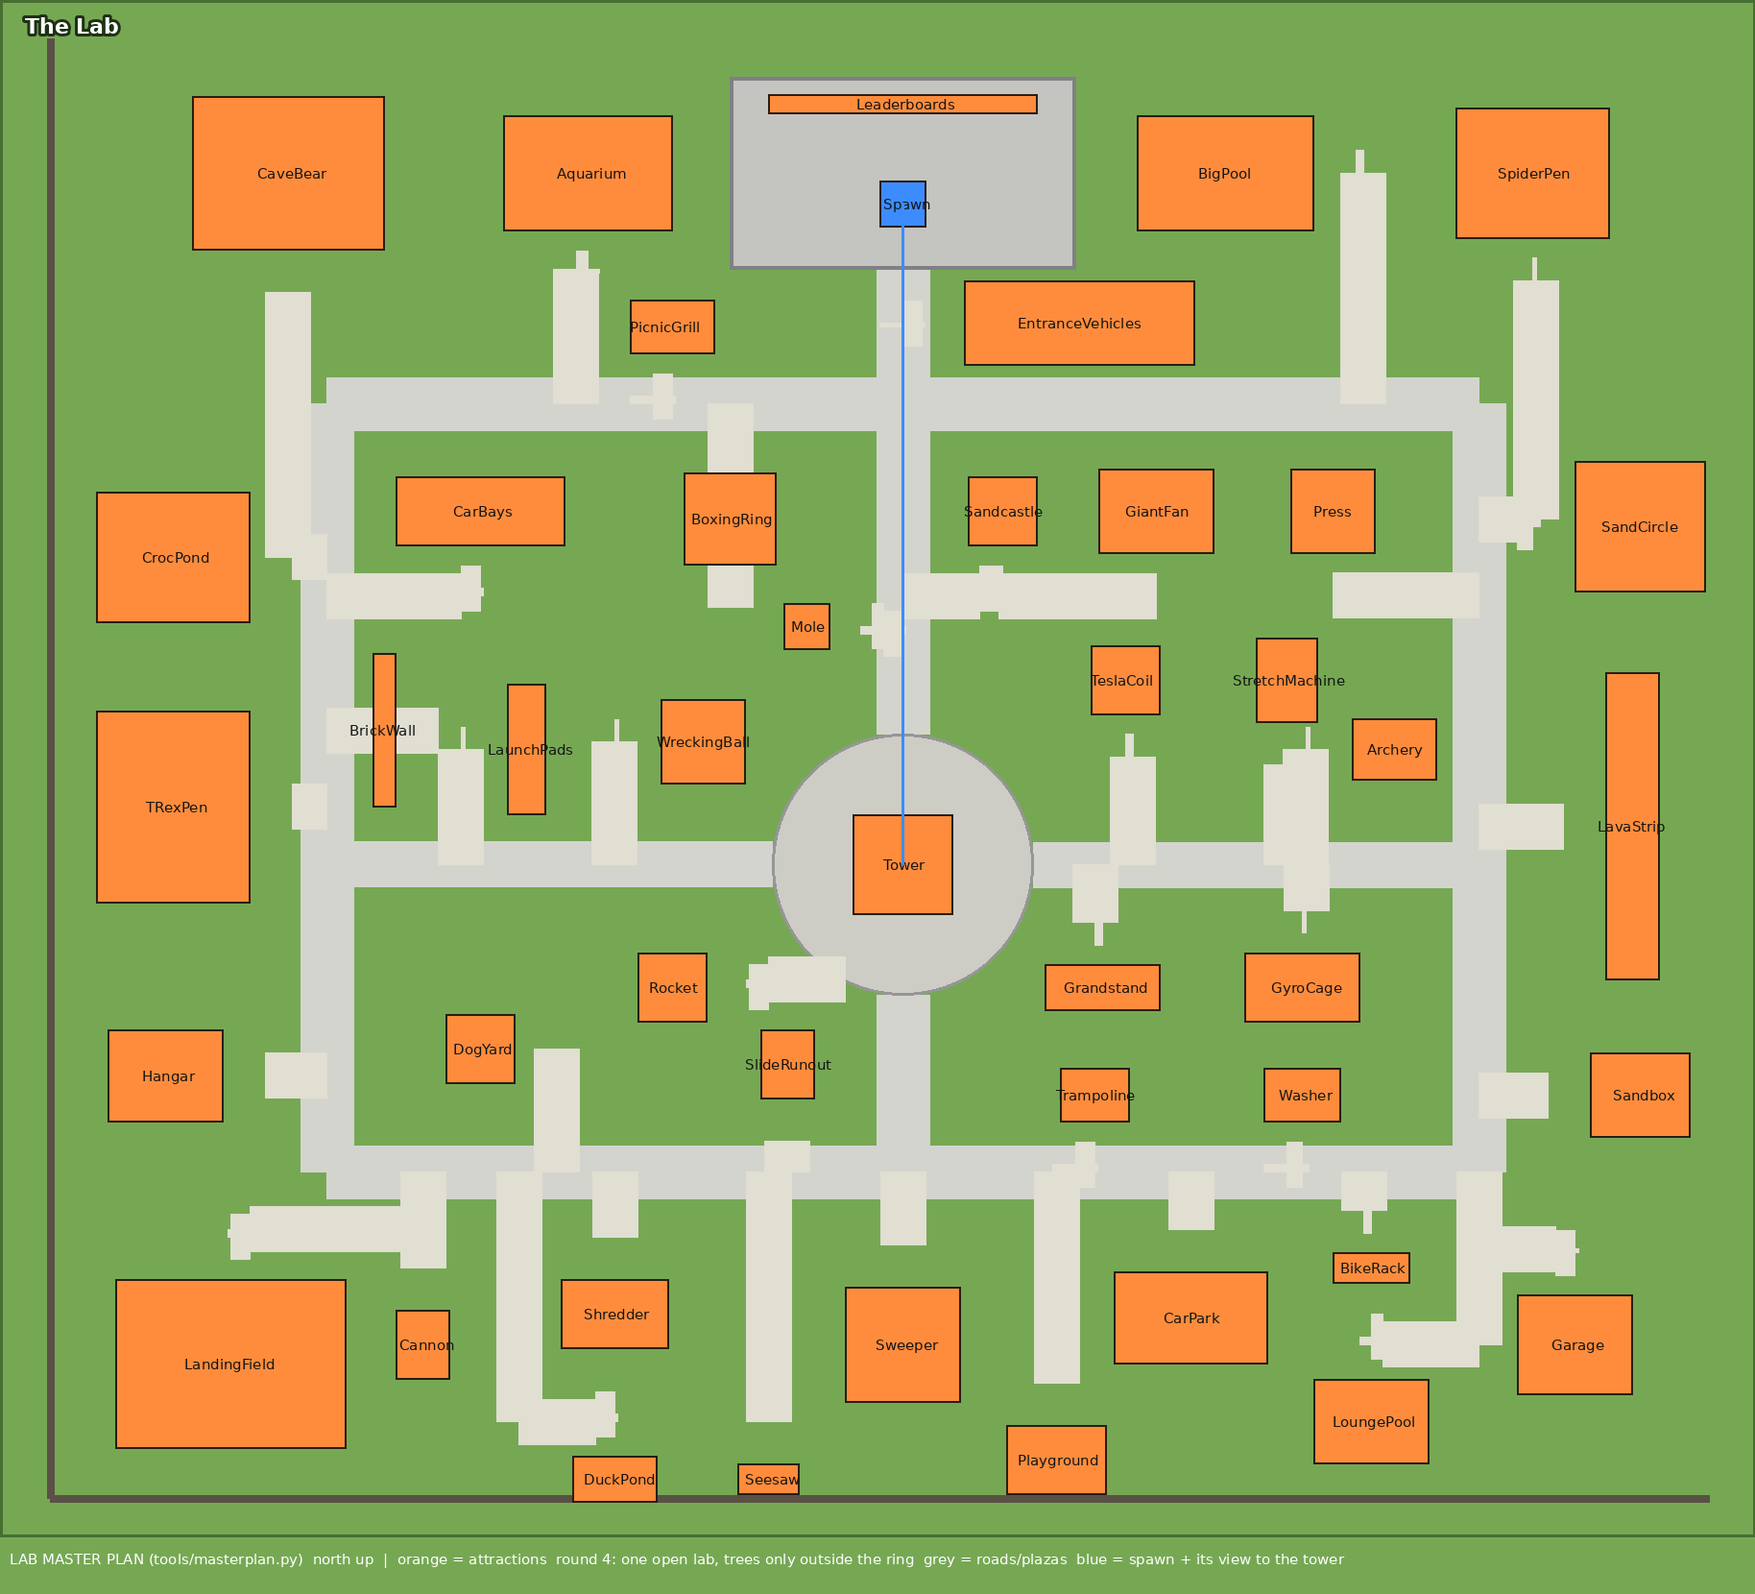
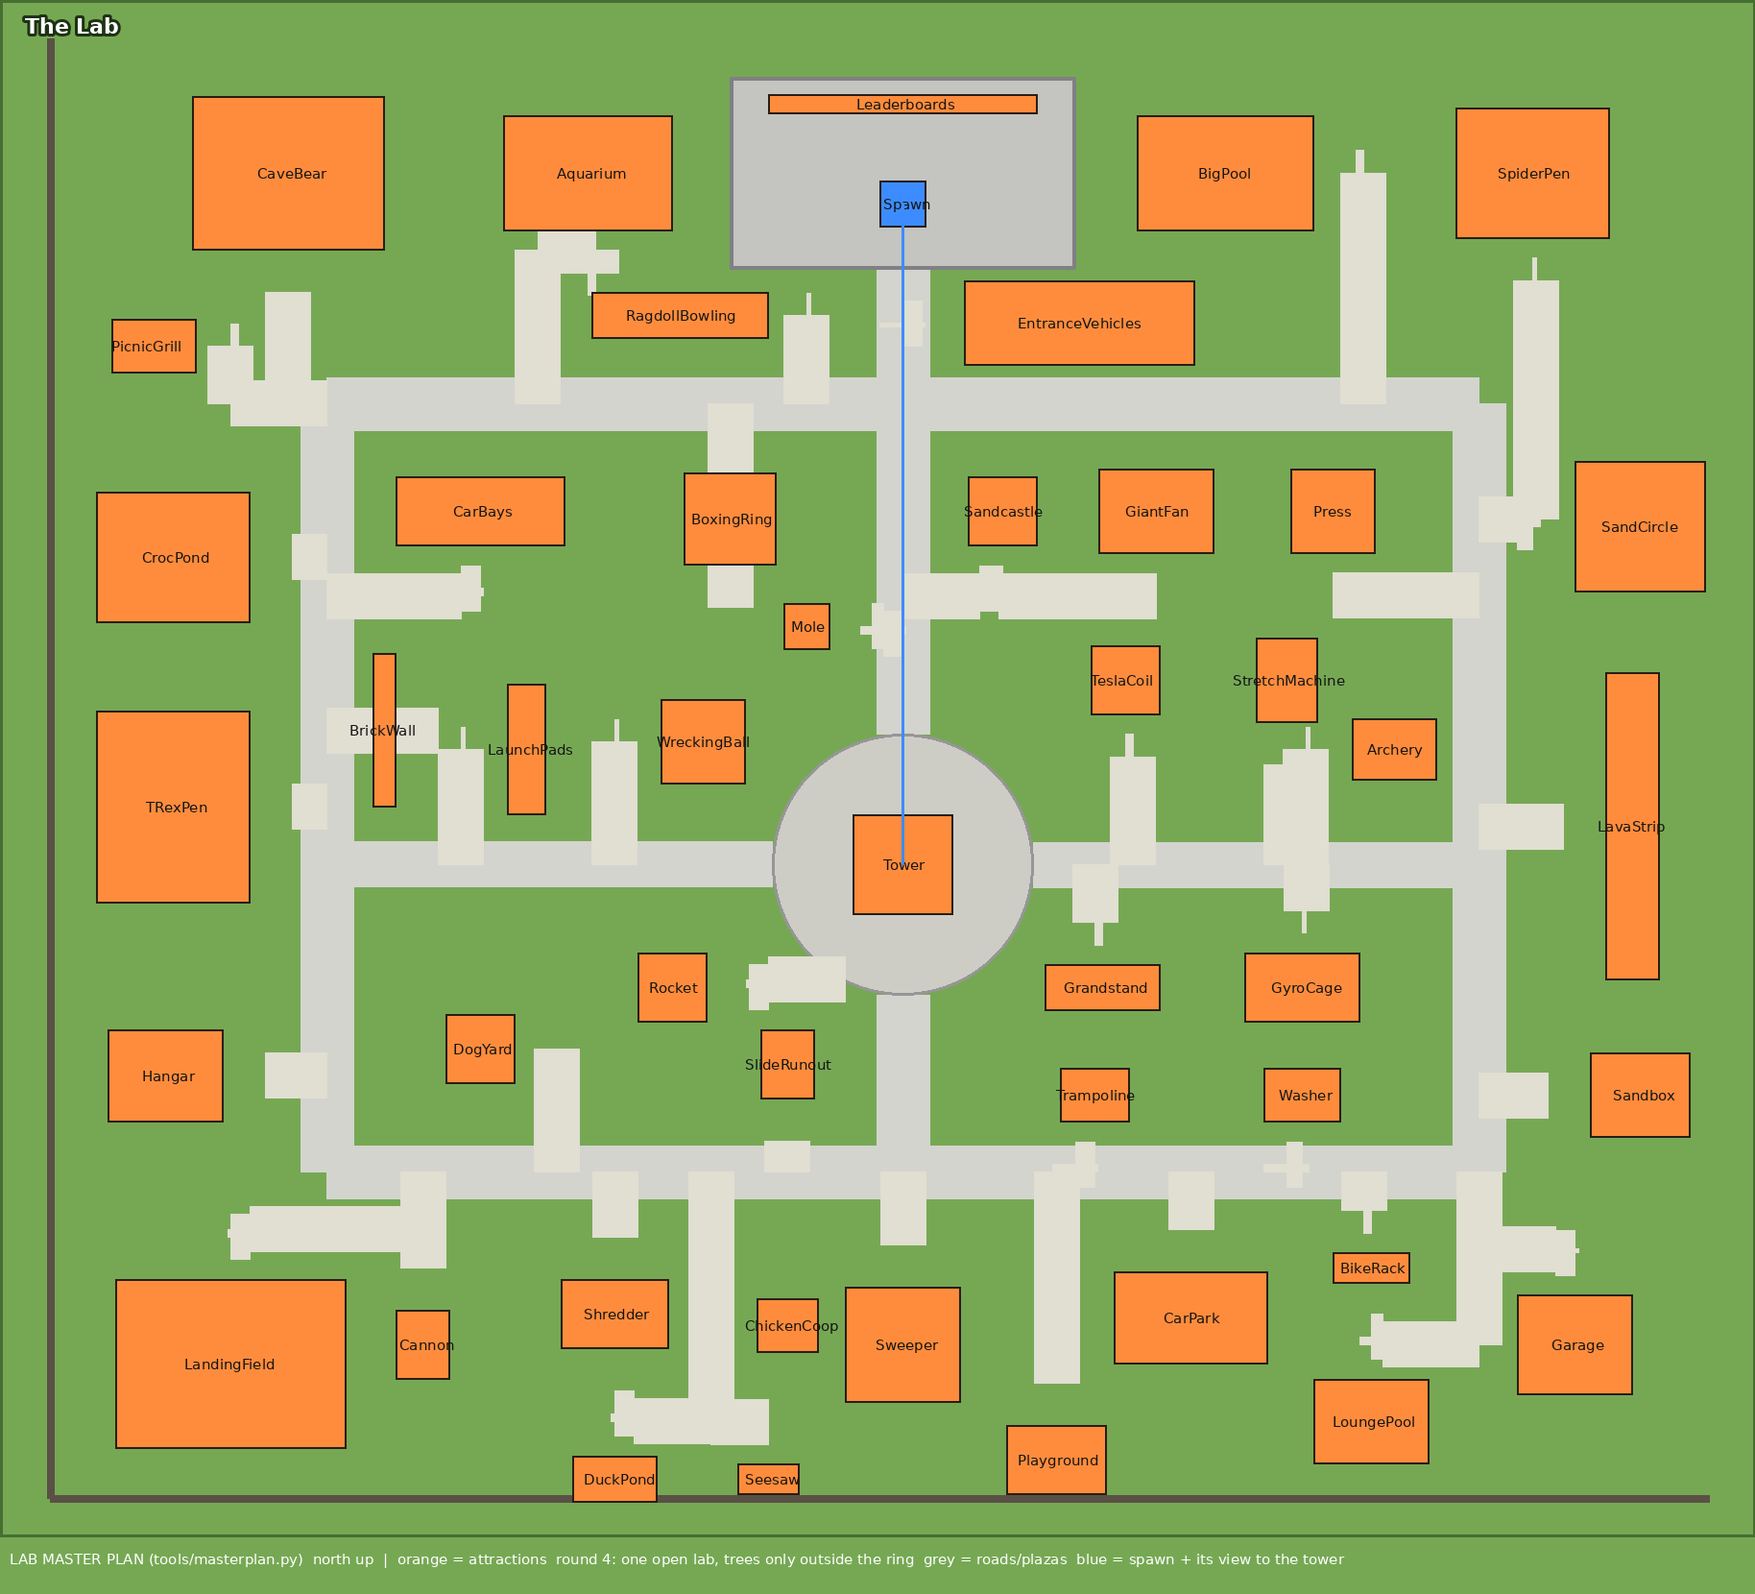
F87 aquarium water from parts inside the glass (no terrain bulging through); F88 the chicken moved to a coop in the south and RAGDOLL BOWLING as the hook by the spawn (plan regenerated, lint 0) (FIXES_26NOV, OVERVIEW)
Claude-Session: https://claude.ai/code/session_01QMSuPfsKra1qjqHBWxnEoR

Changed region(s): [[0.2806, 0.7373, 0.4677, 0.9217], [0.2806, 0.1229, 0.4989, 0.2458], [0.0624, 0.1843, 0.1871, 0.3687]]

diff --git a/tools/masterplan.py b/tools/masterplan.py
@@ -104,7 +104,9 @@ ITEMS += [
     ("Playground",     "Lab",          40,  195, 26, 18, "N", "slide and swings where ragdolls play"),
     ("Seesaw",         "Lab",         -35,  200, 16, 8,  "N", "the wooden seesaw"),
     ("Mole",           "Lab",         -25,  -22, 12, 12, "E", "the mole"),
-    ("PicnicGrill",    "Lab",         -60, -100, 22, 14, "S", "picnic tables + grill"),
+    ("RagdollBowling", "Lab",         -58, -103, 46, 12, "E", "THE HOOK by the spawn (owner: replace the chicken): a short bowling lane, 10 giant pins at the west end, a scoreboard; TRY rolls a ragdoll down it (F88)"),
+    ("PicnicGrill",    "Lab",         -195, -95, 22, 14, "E", "picnic tables + grill"),
+    ("ChickenCoop",    "Lab",         -30, 160, 16, 14, "W", "the chicken's coop and little fenced run (moved away from the spawn, F88)"),
     ("DuckPond",       "Lab",         -75,  200, 22, 12, "N", "the small duck pond"),
     ("TrainingYard",   "Lab",        -100,  -98, 1, 1,  "S", "PLACEHOLDER"),
 ]

diff --git a/docs/OVERVIEW.md b/docs/OVERVIEW.md
@@ -136,6 +136,8 @@ Its DEFINITION OF DONE (`MAP_MASTERPLAN.md` "Check") is the release gate. The or
 |---|---|---|---|---|
 | M4 | **MAP ROUND 4: SMALLER, like the owner's references, FAR fewer trees, the references' quality** (owner: "Mappet skal være mindre som du kan se på mine reference screenshots ... alt for mange træer buske osv, og det ligner slet ikke samme kvalitet"): the R3.2 layout and density at x 1.0-1.4 (about 300-400 studs across instead of about 950 x 820); set pieces back to reference size (tower 50-55 high); the attractions added since go in the free spots; masterplan data rewritten in the same output format, lint 0; `LabLayout10` reads every position from the plan; the tree belts, belt walls, room gates, groves, hedges and the dense forest edge DELETED; 50-80 simple clean trees ONLY in the edge band, ZERO between attractions; no hedges or flower beds between things; smooth Terrain hills close round the edge; OBJECT BY OBJECT (an exact size, build, material and colour table for every bench, barrel, crate, fence, tile, sign, bin, lamp, board, attraction, tree and hill) and THE LOOK 1:1 (one REF_LOOK lighting and Atmosphere for the lab with given values, the measured ref colours, plain solid materials, each attraction styled as in the shots, everything not in the refs or asked for by name removed); main reference: the owner's 3 phone shots `ref_11-13_phone.png`; one capture per ref view with a colour check, then done. **It includes** F50's path rules (one slab per leg, one pad per junction, landings on built fronts) and F82 (the green box, overlapping slabs, see-through parts: the lint is part of its DoD). The OBJECT BY OBJECT props are made as Blender meshes (bevels, baked AO; `CREATURES_ANIM.md` 4) now that Blender is there. | `MAP_MASTERPLAN.md` "MAP ROUND 4", `LAB_TARGET.md` R3.1-R3.2, `art/store/look_target/lab_ref/` | PART 1 DONE v1175 (`M4_CLEAN`, LabOwnerMap m4Clean + Unstick): no tree belts, belt walls, bush rows, hedges, flower beds, flowers or room gates/arches (549 pieces gone); trees only in the 50-stud edge band, at most 70, spread round the rim; zero trees between attractions. Capture art/store/lab10/m4_clean.jpg. PART 2 v1176 (`REF_LOOK`, Client/ZoneLighting): the lab's light and air as in THE LOOK (ClockTime 14, Brightness 2, ambient 70/128, Atmosphere density 0.35, offset 0.25, colour 199, decay 106/112/125, haze 1, glare 0; bloom and sun rays off, no tint); the clean pass now runs inside the build (no trees seen vanishing) and keeps no tree within 20 studs of a plaza. Capture art/store/lab10/m4_reflook.jpg. PART 3 v1181 (THE COMPACT MAP BUILT): the cloud's compact OwnerMapPlan is in Studio; LabOwnerMap takes S = Plan.K (1.3), the ground size and middle from Plan.BOUNDS (+60 edge band), the railway from Plan.RAILWAY, hills close round the edge (green, no rock mountains); the tower is the plan's 26 wide x 52.5 high (6-step flights, the slide curves to the plan's SlideRunout, the bridge and the grandstand on the plan); every set piece sized to its plan footprint (cave, aquarium 40x26x14, pools, pen, bays, wall 40 long x 12, garage, rocket gantry, T-rex pen with its gate east, croc pond, sandcastle, sandbox, sand circle, seesaw, gyro, lava strip N-S, Tesla, sweeper, shredder, duck pond, dog yard, car park, lounge pool, picnic, playground, hangar with brown doors); items gone from the plan are not built (gazebo, water/control tower, kiosk, toilets, training yard); lamps only along the 14-wide walkways, every 48. New Shared/PlanSpot: every system that hard-coded a round-3 spot reads the plan now (spawn, back-to-spawn, LabLayout10 creatures/cars/trampoline/stretcher/boxing ring, the dog house, the rocket, the MAPS board, the cannon + fan, the wrecking ball, the road walkers' ring and spine). Capture art/store/lab10/m4_compact.jpg. PART 4 v1182 (OBJECT BY OBJECT): one builder per object kind with the table's sizes, parts and colours: park benches (3 seat + 2 back slats, cast-iron frames) each with a bin, red barrels (band, lid, groups of 5, one tipped), wooden crates (planks + dark frame on every edge), bins, lamps (10 high, thin dark post, small warm head, a soft light without shadows, every 48 along the walkways only), the lava trench's dark fence; table colours for the grass, walkways, steel tower, slide, rocket gantry, railway (rails, sleepers every 4, slate bed) and trench. Capture art/store/lab10/m4_objects.jpg. PART 5 v1187 (path lint, F82): an inner path that ran INTO or THROUGH its own attraction (the brick wall, the boxing ring) stops 1 stud before its box (LabOwnerMap.clipTo, also for the yards at the path end); signs (10 wide), benches, bins and props keep off every walkable surface; the landing-field boards fit the compact field (25/50/75). Lint in Play: things on walkways 76 before, 4 after (2 plaque legs, 1 sign post; plaques moved onto the row slab after); 0 see-through flat parts on paths. LEFT: the 5 DoD captures (row 1). LEFT (PARKED for now): the SMALLER layout (300-400 studs: tools/masterplan.py needs Python, not installed on this PC; question in NOW.md), OBJECT BY OBJECT and THE LOOK 1:1 | BUILT v1181 (see State). LEFT: OBJECT BY OBJECT and THE LOOK 1:1, the path lint (F82) on the new layout |
 | 0.1574 | **F78: REAL WATER + SWIM or DROWN:** the shark sits INSIDE the aquarium's 3-stud concrete base (the shark tank builds its own floor at ground level); no real water anywhere (glass parts and flat discs). Terrain water in every basin (aquarium, croc pond, pools; 4-stud grid); the aquarium with fish, seaweed, a feeding platform to throw ragdolls in, the shark swimming laps; the croc pond dug in with muddy banks, reeds and real rocks; a SWIM state (head up, crawl, climb out) and a cartoon DROWN (bubbles, knocked out, floats; CPR coughs up water); bodies float; also F33 and F68 | `FIXES_26NOV.md` F78 | PART 1 DONE v1177 (`REAL_WATER`, LabOwnerMap realWater + Systems/SwimService): the aquarium (filled to 2 under the rim), the big pool and the lounge pool (raised concrete basins) and the croc pond (mud and sand bank) are real Terrain water (clear blue-green, transparency 0.6, small waves); the fake glass water parts are gone; each body has a WaterVolume box (NoGo for paths). A ragdoll in the water cries out ("I can't swim!"), floats, and climbs out onto the bank after 8 s (Wet 20 s); a knocked-out one floats. Play: water voxels to y 27 in the aquarium; a ragdoll dropped in the pool cried out and climbed out. PART 2 v1185: on the compact map the shark hangs at MID-DEPTH in the aquarium's terrain water (its own shallow pool, sand floor and rim gone; sized to the tank; no surface fin); a FEEDING PLATFORM on the aquarium's east side (diamond-plate steps up from the front, a railed platform 5 studs over the water to throw or drop a ragdoll in); the croc pond has reed clumps, lily pads and half-buried terrain rocks. Capture art/store/lab10/aquarium_feed.jpg. LEFT: swim and drown animations, the croc death roll, splash effects | all, FIRST |
+| F87 | **The AQUARIUM water pokes through the glass and the tank looks empty:** terrain water (4-stud voxels) bulges in a glass box; replace it in the aquarium with a part-built water volume 0.3 inside the panes (blue-teal, 0.55 transparent) + a moving surface + light shafts + bubbles; swimming uses the WaterVolume box; terrain water stays in the pools and the pond | `FIXES_26NOV.md` F87 | new | all, FIRST in the map phase after M4 |
+| F88 | **The CHICKEN away from the spawn; a HOOK in its place: RAGDOLL BOWLING** (plan regenerated: RagdollBowling at the spawn, ChickenCoop in the south, picnic at the west edge): a 40-long wood lane, 10 giant pins with real physics, a retro TODAY'S BEST board; TRY or the lever: a ragdoll curls up and rolls; STRIKE confetti, cheers, the bell, GUTTER trombone; the pin-setter resets | `FIXES_26NOV.md` F88 | new | all |
 | 0.1575 | **F79: the BEAR CAVE is a grey ball and a loose black slab:** a terrain rock hill joined to the ground (grass on top, moss, roots), a real carved opening, tunnel and dark chamber with glinting eyes; the balls, the slab and the round yard stones go; natural rocks, a log and a stump; the bear stays in its yard; replaces F36's cave part | `FIXES_26NOV.md` F79 | DONE v1183 (`CAVE_V2`, LabOwnerMap caveV2): the cave is a Terrain hill (Rock, Slate, Basalt body; a Grass and Ground skin on top and at its foot) with an arched opening carved into it (a box + round top, through the 4-stud voxel skin), a tunnel into a dark chamber with two blinking eyes and a dark back panel, roots over the mouth; the yard is Terrain Ground with a half-ring of half-buried rocks (a gap at the path), 2 rocks inside, a fallen log and a stump; the bear stands in the yard. No ball parts, no black slab, no round stones. Capture art/store/lab10/cave_v2.jpg | the bear's yard behaviour (F36, PHASE 5 row 3) |
 | 0.1573 | **F75 + F69: the MOTORBIKE stuck IN THE BIKE RACK:** its home pad is the rack's middle (`LabLayout10.CARS.Bike` = BikeRack (-235, 95), among the solid bars under the rail); a bay beside the rack; `VehicleService.homeClear` for every vehicle home + a lint; the motorbike rides the road centre lines (F69) instead of the old spawn-circle `nextSpot` | `FIXES_26NOV.md` F75, F69 | DONE v1184 (`HOME_CLEAR`, `BIKE_ROUTE`): the motorbike's home is the plan's BikeRack + 16 east (beside the rack, LabLayout10 from PlanSpot); VehicleService.homeClear checks every vehicle home with its own box once the map stands and moves a blocked one to the nearest clear spot (the lint prints [Vehicles] homes moved: n; Play: 0); the ragdoll rider follows the walkway loop's centre line (CrossN, RingE, CrossS, RingW, 16 points, one way round), a point not reached in 14 s is skipped, people and ragdolls dodged as before | - |
 | 0.19998 | **F76: VEHICLES in front of the entrance:** a herringbone row of 8 paved bays by the path outside the welcome arch (a masterplan ITEM, lint 0): a FREE bicycle (legs pedal, bell), the Silvia, Panzer and Ford (paid), and 5 new paid Creator Store vehicles with their own feature (monster truck JUMP, go-kart BOOST, police SIREN, fire truck WATER CANNON, bulldozer BLADE) built in our code through one whitelisted `VehicleAction` remote (their scripts only after the security check); passes from the owner, 'SOON' until then (never free by mistake); one big extra touch button on a phone | `FIXES_26NOV.md` F76 | PART 1 DONE v1186 (`ENTRANCE_ROW`): the herringbone row north of the CrossN walkway by the spawn (LabLayout10.ENTRANCE_ROW from the plan's EntranceVehicles, each bay as wide as its vehicle, turned 45 degrees, noses to the walkway): the Silvia, the Ford and the Panzer stand there now (the crash-yard bays stay as painted parking); one paved slab, white bay lines, a low plaque at every bay (name + R$ price / FREE / SOON); the Ford uses its pass 2092632252 when Roblox says it is for sale, else it stays free (question in NOW.md); bicycle, go-kart, police car, monster truck, bulldozer and fire truck bays show SOON. Capture art/store/lab10/entrance_row.jpg | the free BICYCLE (a rigged model, pedalling legs, bell), the 5 new Creator Store vehicles with their features through one whitelisted VehicleAction remote (models + malware pass), one big extra touch button on a phone; pass ids from the owner |

diff --git a/docs/FIXES_26NOV.md b/docs/FIXES_26NOV.md
@@ -1494,6 +1494,54 @@ This replaces F51 (NORMAL 30, sprint about 50), F38 (the Walk speed setting) and
 4. **The leg detector** (`LEG_JITTER_LOG`) also logs the Mood, so any jitter left in a mood is named in the log for the next session.
 5. **Check (the owner):** watch a ragdoll give CPR and one mourn: kneeling still, the legs calm, only the arms and head move.
 
+## F87 The AQUARIUM: the water pokes THROUGH the glass, and the tank looks empty (owner, 26 Nov late: "Fiks så det ikke ligner vandet er igennem ruden og at man stadig kan se der er vand"; screenshot: curved slabs of terrain water bulge out through the glass sides, the inside looks empty, only a thin surface at the top)
+**The cause:** Terrain water snaps to a 4-stud voxel grid and is drawn rounded at its edges, so in a glass box above the ground it bulges through the panes and leaves gaps inside. Terrain water is fine in dug-in basins (the pools, the croc pond), but not in a glass tank.
+
+**The fix** (`Config.AQUA_PARTS = true`; the aquarium only, F78 stays for the pools and the pond):
+1. **Remove the terrain water from the aquarium** (fill that box with Air again).
+2. **Build the water from parts, exactly inside the glass:**
+   - a water volume part 0.3 studs inside every pane, from the sand floor to 1.5 studs under the rim: SmoothPlastic or Glass, blue-teal (60,150,190), Transparency about 0.55, CanCollide off, CanQuery off, CastShadow off;
+   - a surface plane on top with a moving water texture (two offset scrolling textures on the client), slightly lighter;
+   - soft light shafts (a few faint Beams) from the surface down;
+   - bubbles rising from the air stone.
+
+   The tank then reads as FULL of clear blue water from every side, and the shark, the fish and the seaweed show through it.
+3. **The glass:**
+   - the panes about 0.4 thick, Glass, Transparency about 0.3, with a faint reflection;
+   - the frame posts outside the panes, so nothing sticks through;
+   - the water part never touches or crosses a pane.
+4. **Swimming stays:**
+   - the SWIM state uses the tank's `WaterVolume` box (F78 step 4), not the terrain, so ragdolls float, swim, drown and climb out as before;
+   - players inside the box get a swim assist: buoyancy by code and a blue screen tint with a muffled sound while the camera is inside.
+5. **The splash:** a ragdoll thrown in makes a splash and ripples on the surface plane.
+6. **Check (the owner):** walk round the aquarium. Clear blue water fills it to the top on every side, nothing pokes out through the glass, and the shark swims inside.
+
+## F88 The CHICKEN goes away from the spawn; a HOOK takes its place (owner, 26 Nov late: "Flyt kylling væk fra spawn og erstat med noget som hooker folk"; screenshot: the chicken on a little fenced sand yard with a hut and picnic tables right by the spawn stair)
+**The plan is regenerated** (cloud, lint 0):
+- `RagdollBowling` takes the spot by the spawn (-58, -103);
+- the chicken gets a `ChickenCoop` in the south (-30, 160);
+- the picnic tables move to the west edge (-195, -95).
+- Move `LabLayout10.CREATURES.Chicken` to the coop (read it from the plan).
+
+**THE HOOK: RAGDOLL BOWLING** (`Config.RAGDOLL_BOWLING = true`), the first thing a new player sees from the spawn stair. Why: it is instantly clear, a 5-second payoff, a score to beat, and it is fun to watch others.
+- **The lane:** about 40 long and 8 wide, along x, starting near the spine and running west:
+  - polished wood with arrows and gutters on both sides;
+  - 10 GIANT white pins with red stripes at the west end (each about 5 high, real physics, light);
+  - a back pad and a pin-setter bar;
+  - a big retro scoreboard on posts behind the pins (the session best, "TODAY'S BEST" with the top 3 names, no free text).
+- **Play:**
+  - tap TRY or the big lever by the lane (F81): a ragdoll runs up, curls into a ball (a hugging-knees pose), and ROLLS down the lane;
+  - or carry and throw any ragdoll down it yourself;
+  - the score counts the fallen pins;
+  - STRIKE = a confetti burst, a "STRIKE!" pop, a crowd cheer from the watchers and a bell; SPARE and GUTTER ("Gutter ball…" with a sad trombone) too;
+  - after 3 s the pin-setter bar sweeps and resets the pins;
+  - the rolled ragdoll gets up dizzy at the end and walks back.
+- **Watchers:** 2-3 ragdolls stand by the lane and react (CURIOUS ones come to watch; the persona rules).
+- **The phone:** the TRY and the lever prompt are big and clear; the score shows on the board, not as a HUD popup.
+- **Looks:** the CREATURES_ANIM 4 style (bevels, baked AO), the M4 colours.
+- **Cost:** 10 light pins asleep until hit; reset by tween; the scoreboard is one SurfaceGui with a MaxDistance.
+- **Check (the owner):** from the spawn you see the lane first. Tap TRY: a ragdoll rolls, pins fly, STRIKE, confetti. The chicken lives in its coop in the south.
+
 ## Answers to Claude Code's questions (owner direction or safe default)
 - **X-RAY key:** I is fine (B is Build). Phone: a small X-RAY toggle button.
 - **The big map (step 7):** YES, do it now.
